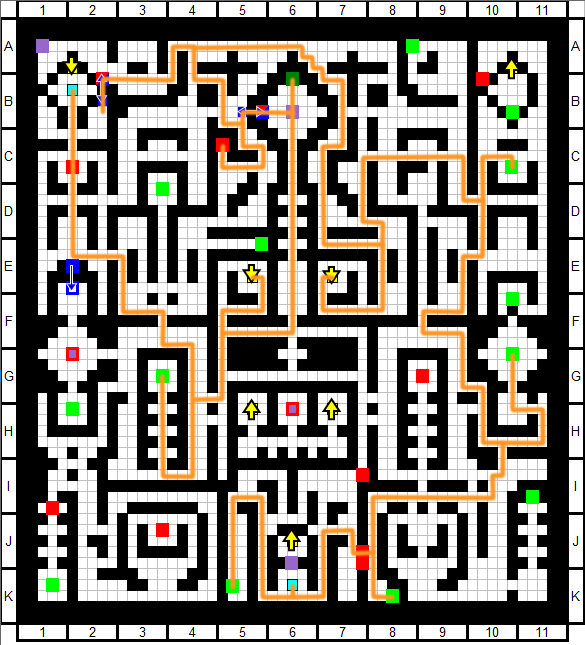
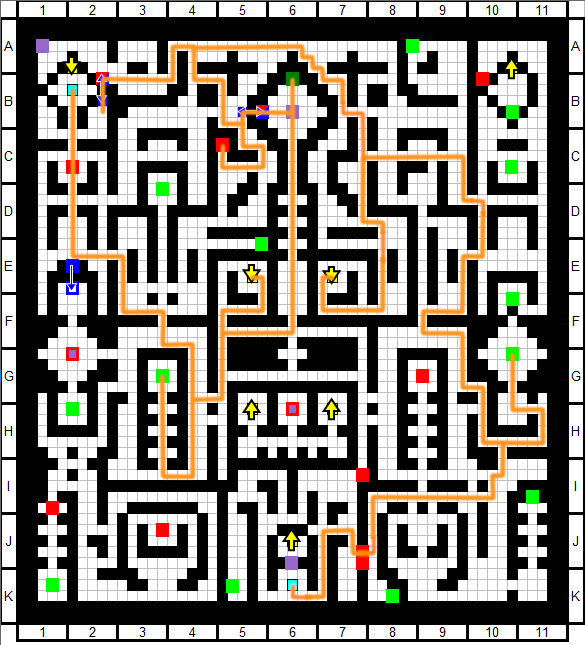
Fixed 5F map to remove treasures and optimized a menu

diff --git a/routes/ng/murakumo.md b/routes/ng/murakumo.md
@@ -433,8 +433,6 @@
 		* <span class="equip-add"> **Komachi**: </span>
 			* <span class="equip-add"> (2) **Light Crystal** (3) </span>
 			* <span class="equip-add"> (M) **Violent Green Rupee** (2) </span>
-		* <span class="equip-add"> **Marisa**: </span>
-			* <span class="equip-add"> (3) **Light Staff** (1) </span>
 	* Learn Skills:
 		* <span class="learn-skill"> **Komachi**: Ferry Wages 2 -> 4 </span>
 		* <span class="learn-skill"> **Minoriko**: Ability Control Harvests 0 -> 1 </span>

diff --git a/item/chests.md b/item/chests.md
@@ -151,7 +151,7 @@ Any treasure located in floor A that can only be obtained after reaching floor B
 | Water Cutting Sword | X |
 | Yamabiko Necklace | X |
 | Floor Total | 4 |
-| Combined Total | 48 |
+| Combined Total | 43 |
 
 #### <a id="floor-6"></a>Floor 6
 
